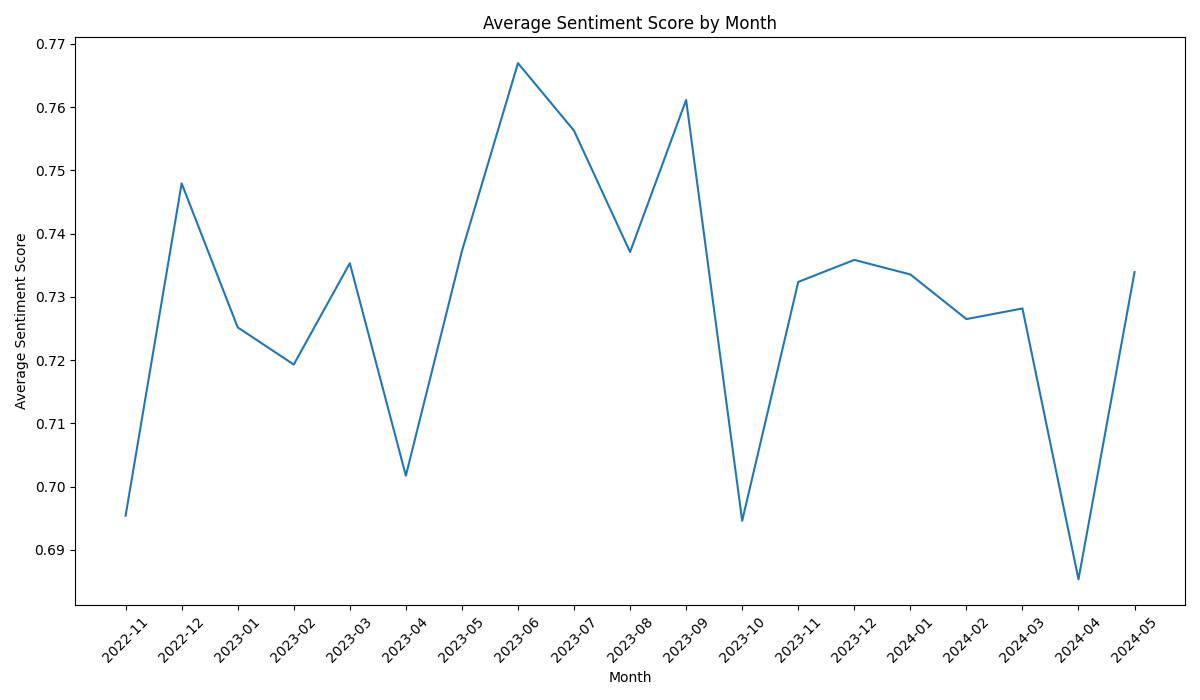
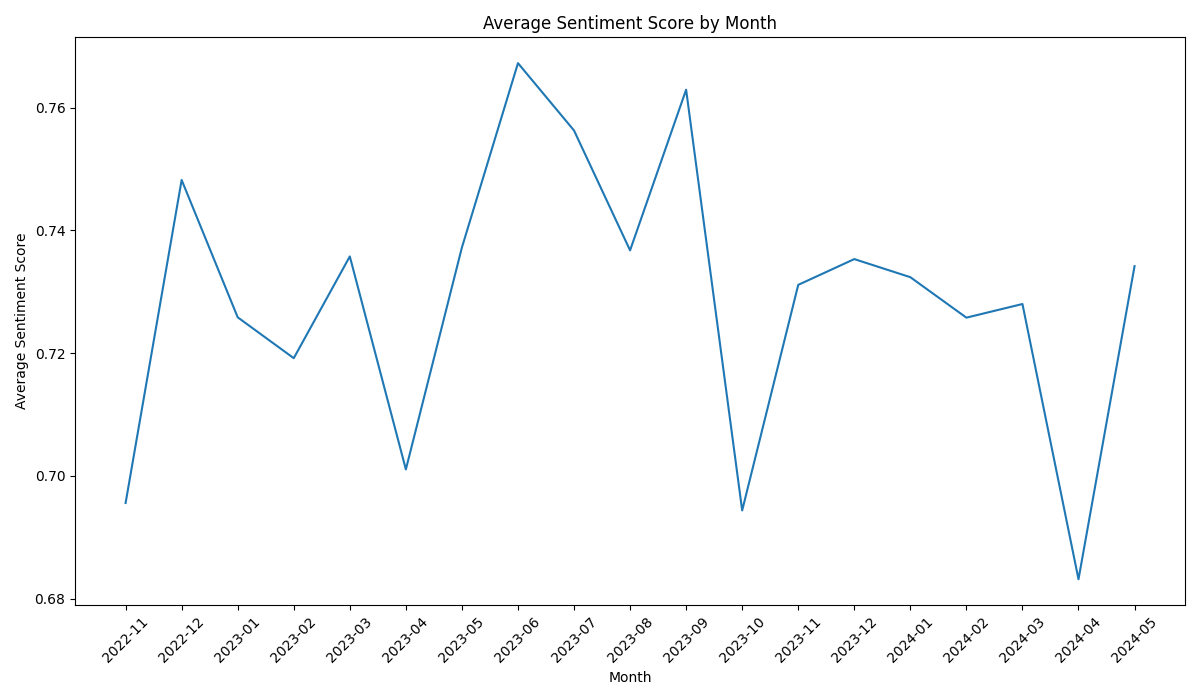
analysis after deleting nan data

diff --git a/analysis/analysis.py b/analysis/analysis.py
@@ -9,8 +9,10 @@ from conversion import THAI_TO_ENG_TOPIC, FULLNAME_TO_ABBREVIAION
 
 FIGSIZE = (12, 7)
 
+# If possible, make it to a class object for good practice.
 
-def get_sentiment_score_by_month(year: int, month: int):
+
+def get_sentiment_score(year: int, month: int):
     avg_score_one_month = []
     for day in os.listdir(os.path.join("sentiment_jsonl", str(year), str(month).zfill(2))):
         open_path = os.path.join("sentiment_jsonl", str(year), str(month).zfill(2), str(day))
@@ -28,7 +30,7 @@ def get_sentiment_score_distribution(plot_central_tendency="median"):
 
     for year in os.listdir("sentiment_jsonl"):
         for month in os.listdir(os.path.join("sentiment_jsonl", year)):
-            all_avg_scores.extend(get_sentiment_score_by_month(int(year), int(month)))
+            all_avg_scores.extend(get_sentiment_score(int(year), int(month)))
 
     stats = defaultdict(float)
     stats["mean"] = np.mean(all_avg_scores)
@@ -38,7 +40,6 @@ def get_sentiment_score_distribution(plot_central_tendency="median"):
     stats["num_sample"] = len(all_avg_scores)
     central_score = stats.get(plot_central_tendency, None)
 
-    save_path = "analysis/sentiment_score_distribution.png"
     plt.figure(figsize=FIGSIZE)
     sns.displot(data=all_avg_scores)
     if central_score:
@@ -48,23 +49,22 @@ def get_sentiment_score_distribution(plot_central_tendency="median"):
     plt.xlabel("Average Sentiment Score")
     plt.ylabel("Frequency")
     plt.tight_layout()
-    plt.savefig(save_path)
+    plt.savefig("analysis/sentiment_score_distribution.png")
     # plt.show()
 
     return stats
 
 
-def plot_sentiment_score_by_month():
+def plot_sentiment_score():
     all_months = []
-    score_by_month = []
+    score = []
 
     for year in os.listdir("sentiment_jsonl"):
         for month in os.listdir(os.path.join("sentiment_jsonl", year)):
             all_months.append(f"{year}-{month}")
-            score_by_month.append(np.mean(get_sentiment_score_by_month(int(year), int(month))))
+            score.append(np.mean(get_sentiment_score(int(year), int(month))))
 
-    df = pd.DataFrame({"month": all_months, "avg_score": score_by_month})
-    save_path = "analysis/sentiment_score_by_month.png"
+    df = pd.DataFrame({"month": all_months, "avg_score": score})
     plt.figure(figsize=FIGSIZE)
     sns.lineplot(data=df, x="month", y="avg_score")
     plt.title("Average Sentiment Score by Month")
@@ -72,7 +72,7 @@ def plot_sentiment_score_by_month():
     plt.ylabel("Average Sentiment Score")
     plt.xticks(range(len(all_months)), all_months, rotation=45)
     plt.tight_layout()
-    plt.savefig(save_path)
+    plt.savefig("analysis/sentiment_score_by_month.png")
     # plt.show()
 
 
@@ -128,7 +128,57 @@ def plot_frequency_and_avg_score_by_topic(mean_score=None):
     # plt.show()
 
 
+def get_sentiment_score_by_top_topic(n=5):
+    topic_dict = get_frequency_and_avg_score_by_topic()
+    sorted_topic_dict = sorted(topic_dict, key=lambda x: topic_dict[x]["avg_score"])
+
+    top_positive_topics = sorted_topic_dict[-n:]
+    top_negative_topics = sorted_topic_dict[:n]
+
+    all_months = []
+    score_by_topic = defaultdict(list)
+    for year in os.listdir("sentiment_jsonl"):
+        for month in os.listdir(os.path.join("sentiment_jsonl", year)):
+            score_by_topic_one_month = {eng_topic: [] for eng_topic in THAI_TO_ENG_TOPIC.values()}
+            for day in os.listdir(os.path.join("sentiment_jsonl", year, month)):
+                open_path = os.path.join("sentiment_jsonl", year, month, day)
+                with open(open_path, "r", encoding="utf8") as infile:
+                    for line in infile:
+                        data = json.loads(line)
+                        converted_topic = THAI_TO_ENG_TOPIC.get(data["topic_model"], "Others")
+                        score_by_topic_one_month[converted_topic].append(data["avg_score"])
+            for topic, scores in score_by_topic_one_month.items():
+                score_by_topic[topic].append(np.mean(scores) if scores else np.nan)
+            all_months.append(f"{year}-{month}")
+
+    df = pd.DataFrame(score_by_topic, index=all_months).interpolate()
+
+    plt.figure(figsize=FIGSIZE)
+    for topic in top_positive_topics:
+        plt.plot(df.index, df[topic], label=topic)
+    plt.legend(fontsize="small", loc="lower left")
+    plt.title("Average Sentiment Score by Topic by Month")
+    plt.xlabel("Month")
+    plt.ylabel("Average Sentiment Score")
+    plt.xticks(range(len(all_months)), all_months, rotation=45)
+    plt.tight_layout()
+    plt.savefig("analysis/sentiment_score_by_positive_topic_by_month.png")
+    # plt.show()
+
+    plt.figure(figsize=FIGSIZE)
+    for topic in top_negative_topics:
+        plt.plot(df.index, df[topic], label=topic)
+    plt.legend(fontsize="small", loc="lower left")
+    plt.title("Average Sentiment Score by Topic by Month")
+    plt.xlabel("Month")
+    plt.ylabel("Average Sentiment Score")
+    plt.xticks(range(len(all_months)), all_months, rotation=45)
+    plt.tight_layout()
+    plt.savefig("analysis/sentiment_score_by_negative_topic_by_month.png")
+
+
 if __name__ == "__main__":
     stats = get_sentiment_score_distribution(plot_central_tendency="median")
-    plot_sentiment_score_by_month()
+    plot_sentiment_score()
     plot_frequency_and_avg_score_by_topic(mean_score=stats["mean"])
+    get_sentiment_score_by_top_topic()
